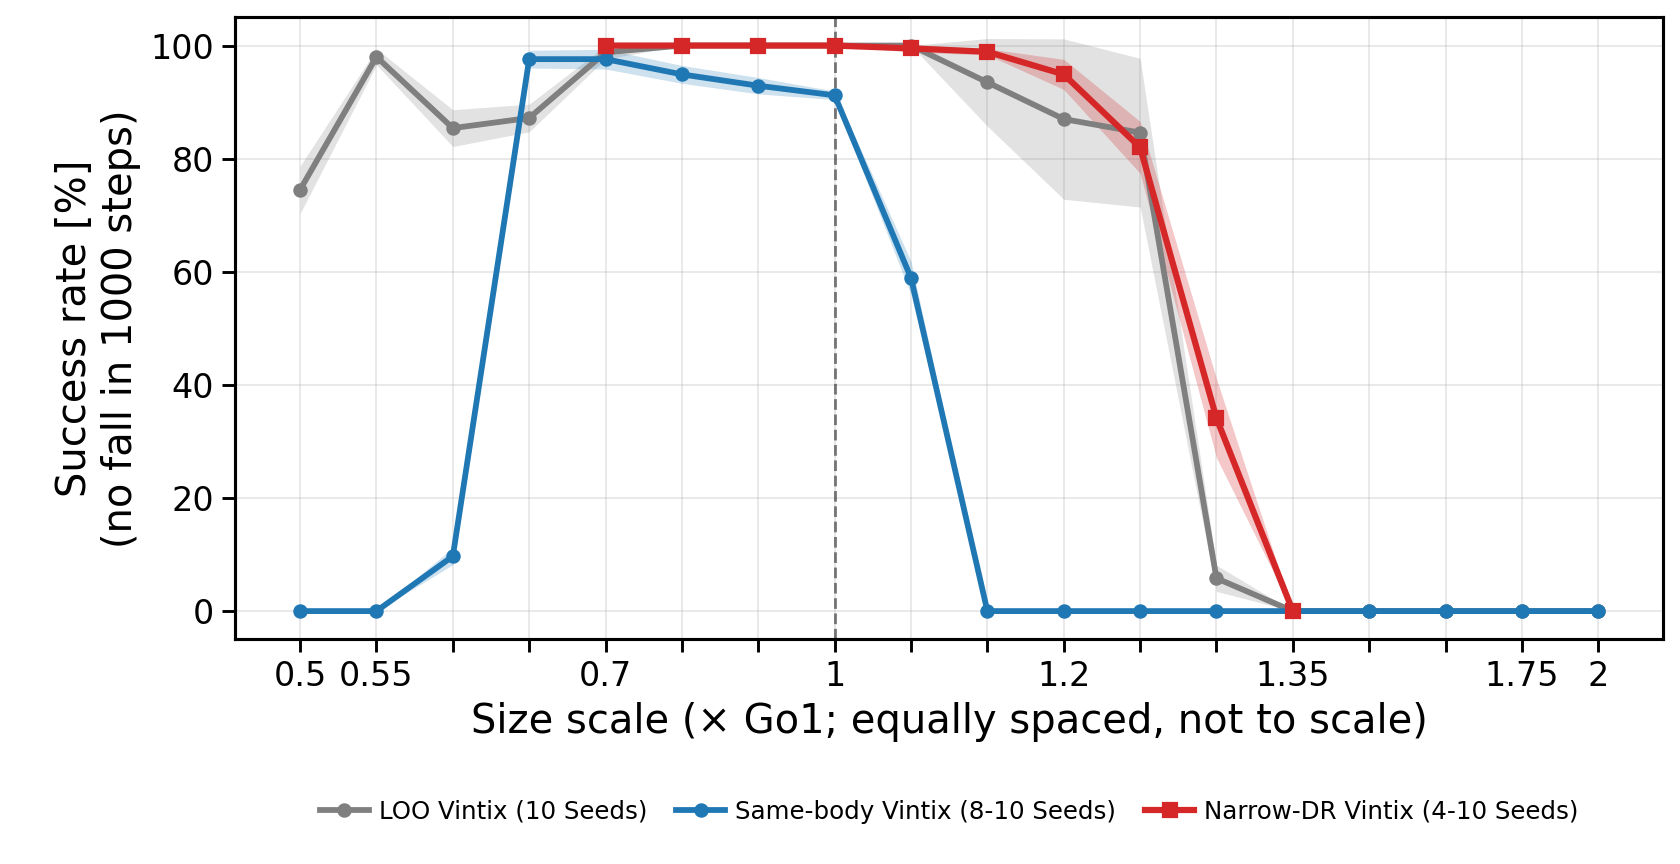
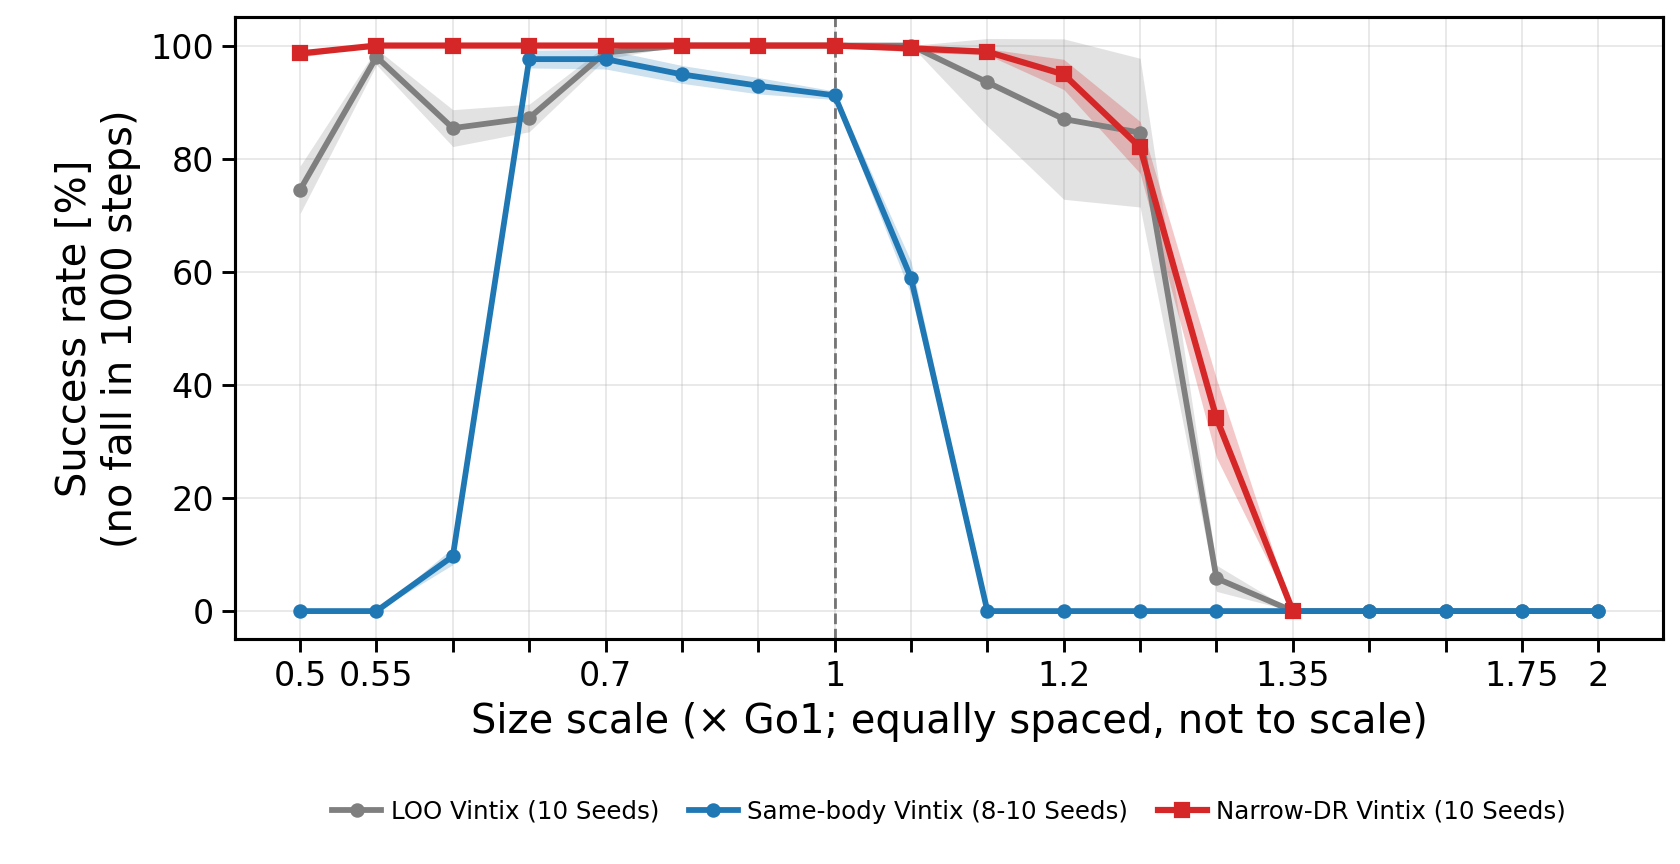
Record #21 size_density hi-cliff 1.1× (no high-side gain vs LOO).

Changed region(s): [[0.4333, 0.9062, 0.9286, 0.9688], [0.2167, 0.9062, 0.4024, 0.9688], [0.1548, 0.0312, 0.3714, 0.0625]]

diff --git a/vintix_go2/dr_narrow_vintix_bodyscale/make_interim_size_density_figure.py b/vintix_go2/dr_narrow_vintix_bodyscale/make_interim_size_density_figure.py
@@ -1,0 +1,203 @@
+#!/usr/bin/env python3
+"""Interim Go1 size_density figure: narrow-DR (#21) vs same-body (#18) vs LOO (#10).
+
+Does not touch the running eval pipeline.
+
+  cd /workspace/vintix_go2
+  python dr_narrow_vintix_bodyscale/make_interim_size_density_figure.py
+"""
+from __future__ import annotations
+
+import csv
+import json
+from collections import defaultdict
+from datetime import datetime, timezone
+from pathlib import Path
+
+import numpy as np
+
+EXP_DIR = Path(__file__).resolve().parent
+NARROW_ROOT = EXP_DIR / "results" / "go1" / "vintix" / "size_density"
+NARROW_MASS = EXP_DIR / "results" / "go1" / "vintix" / "mass"
+SAME_ROOT = EXP_DIR.parent / "same_body_scale_zeroshot" / "results" / "go1" / "vintix" / "size_density"
+SAME_MASS = EXP_DIR.parent / "same_body_scale_zeroshot" / "results" / "go1" / "vintix" / "mass"
+LOO_CSV = EXP_DIR.parent / "robot_body_scale_zeroshot" / "results.csv"
+FIG_DIR = EXP_DIR / "figures"
+OUTPUT_STEM = "go1_10envs_10episodes"
+BOLD_SCALES = (0.7, 0.8, 0.9, 1.0, 1.1, 1.15, 1.2, 1.25, 1.3)
+
+
+def collect_axis(root: Path, mass_root: Path | None = None) -> dict[float, list[float]]:
+    by_scale: dict[float, list[float]] = defaultdict(list)
+    if root.is_dir():
+        for meta in root.glob("*_seed*/point.json"):
+            parent = meta.parent.name
+            scale_s, _seed = parent.rsplit("_seed", 1)
+            scale = float(scale_s.replace("s", "").replace("p", "."))
+            metrics = meta.parent / f"{OUTPUT_STEM}_metrics.json"
+            if not metrics.exists():
+                continue
+            cr = float(json.load(open(metrics))["completion_rate"]) * 100.0
+            by_scale[scale].append(cr)
+    if mass_root is not None and 1.0 not in by_scale and mass_root.is_dir():
+        for meta in mass_root.glob("s1p000_seed*/point.json"):
+            metrics = meta.parent / f"{OUTPUT_STEM}_metrics.json"
+            if not metrics.exists():
+                continue
+            by_scale[1.0].append(float(json.load(open(metrics))["completion_rate"]) * 100.0)
+    return dict(by_scale)
+
+
+def collect_loo() -> dict[float, tuple[float, float, int]]:
+    out: dict[float, tuple[float, float, int]] = {}
+    if not LOO_CSV.exists():
+        return out
+    with open(LOO_CSV) as f:
+        for row in csv.DictReader(f):
+            if row["robot"] != "go1" or row["policy"] != "vintix" or row["axis"] != "size_density":
+                continue
+            scale = float(row["scale"])
+            out[scale] = (
+                float(row["completion_mean"]),
+                float(row["completion_std"]),
+                int(row["n_seeds"]),
+            )
+    return out
+
+
+def tick_label_indices(n: int, base: int, step: int = 3) -> list[int]:
+    labeled = {0, n - 1, base}
+    for i in range(base - step, -1, -step):
+        labeled.add(i)
+    for i in range(base + step, n, step):
+        labeled.add(i)
+    return sorted(labeled)
+
+
+def _series_stats(by_scale: dict[float, list[float]], scales: list[float]):
+    xs = [x for x in scales if x in by_scale and by_scale[x]]
+    vals = [np.array(by_scale[x]) for x in xs]
+    mean = np.array([v.mean() for v in vals])
+    std = np.array([v.std(ddof=0) for v in vals])
+    n0, n1 = min(len(v) for v in vals), max(len(v) for v in vals)
+    seeds = f"{n0}-{n1} Seeds" if n0 != n1 else f"{n0} Seeds"
+    return xs, mean, std, seeds
+
+
+def main() -> Path:
+    import matplotlib
+
+    matplotlib.use("Agg")
+    import matplotlib.pyplot as plt
+
+    narrow = collect_axis(NARROW_ROOT, NARROW_MASS)
+    same = collect_axis(SAME_ROOT, SAME_MASS)
+    loo = collect_loo()
+    scales = sorted(set(narrow) | set(same) | set(loo))
+    pos = {x: i for i, x in enumerate(scales)}
+    base = scales.index(1.0) if 1.0 in scales else 0
+    day = datetime.now(timezone.utc).strftime("%Y%m%d")
+    out = FIG_DIR / f"go1_size_density_narrow_vs_samebody_loo_completion_mean_std_{day}.png"
+
+    with plt.rc_context(
+        {
+            "font.size": 16,
+            "axes.labelsize": 18,
+            "xtick.labelsize": 15,
+            "ytick.labelsize": 15,
+            "legend.fontsize": 11,
+            "axes.linewidth": 1.4,
+        }
+    ):
+        fig, ax = plt.subplots(1, 1, figsize=(10.5, 5.4))
+
+        xs = [x for x in scales if x in loo]
+        if xs:
+            xp = np.array([pos[x] for x in xs], dtype=float)
+            mean = np.array([loo[x][0] for x in xs])
+            std = np.array([loo[x][1] for x in xs])
+            n0, n1 = min(loo[x][2] for x in xs), max(loo[x][2] for x in xs)
+            seeds = f"{n0}-{n1} Seeds" if n0 != n1 else f"{n0} Seeds"
+            ax.plot(
+                xp, mean, "o-", color="#7f7f7f",
+                label=f"LOO Vintix ({seeds})", lw=2.6, ms=5.5, zorder=3,
+            )
+            ax.fill_between(xp, mean - std, mean + std, color="#7f7f7f", alpha=0.22, lw=0, zorder=2)
+
+        if same:
+            xs, mean, std, seeds = _series_stats(same, scales)
+            xp = np.array([pos[x] for x in xs], dtype=float)
+            ax.plot(
+                xp, mean, "o-", color="#1f77b4",
+                label=f"Same-body Vintix ({seeds})", lw=2.6, ms=5.5, zorder=4,
+            )
+            ax.fill_between(xp, mean - std, mean + std, color="#1f77b4", alpha=0.22, lw=0, zorder=2)
+
+        if narrow:
+            xs, mean, std, seeds = _series_stats(narrow, scales)
+            xp = np.array([pos[x] for x in xs], dtype=float)
+            ax.plot(
+                xp, mean, "s-", color="#d62728",
+                label=f"Narrow-DR Vintix ({seeds})", lw=2.8, ms=6, zorder=5,
+            )
+            ax.fill_between(xp, mean - std, mean + std, color="#d62728", alpha=0.25, lw=0, zorder=2)
+
+        if 1.0 in pos:
+            ax.axvline(pos[1.0], color="black", lw=1.3, ls="--", alpha=0.5)
+        ax.set_ylim(-5, 105)
+        ax.set_ylabel("Success rate [%]\n(no fall in 1000 steps)")
+        ax.grid(True, alpha=0.3)
+        ax.tick_params(width=1.3, length=6)
+        tick_idx = set(tick_label_indices(len(scales), base, step=3))
+        ax.set_xticks(range(len(scales)))
+        ax.set_xticklabels([f"{scales[i]:g}" if i in tick_idx else "" for i in range(len(scales))])
+        ax.set_xlabel("Size×density scale (× Go1; equally spaced, not to scale)")
+        fig.subplots_adjust(left=0.14, right=0.99, top=0.98, bottom=0.26)
+        handles, labels = ax.get_legend_handles_labels()
+        axes_mid = 0.5 * (0.14 + 0.99)
+        fig.legend(
+            handles,
+            labels,
+            loc="upper center",
+            ncol=3,
+            frameon=False,
+            bbox_to_anchor=(axes_mid, 0.10),
+            handlelength=2.0,
+            columnspacing=1.2,
+            handletextpad=0.4,
+        )
+        FIG_DIR.mkdir(parents=True, exist_ok=True)
+        fig.savefig(out, dpi=160)
+        plt.close(fig)
+
+    table = FIG_DIR / f"go1_size_density_narrow_vs_samebody_loo_table_{day}.md"
+    lines = [
+        f"<!-- interim #21 size_density, {day} UTC -->",
+        "",
+        "| scale | narrow-DR mean% (n) | narrow std% | same-body mean% (n) | same std% | LOO mean% (n) | LOO std% |",
+        "|---:|---:|---:|---:|---:|---:|---:|",
+    ]
+    for x in scales:
+        def fmt(by):
+            if x not in by or not by[x]:
+                return "—", "—"
+            v = np.array(by[x])
+            return f"{v.mean():.1f} ({len(v)})", f"{v.std(ddof=0):.1f}"
+
+        nb, nb_s = fmt(narrow)
+        sb, sb_s = fmt(same)
+        if x in loo:
+            m, s, n = loo[x]
+            lo, lo_s = f"{m:.1f} ({n})", f"{s:.1f}"
+        else:
+            lo, lo_s = "—", "—"
+        label = f"**{x:g}**" if x in BOLD_SCALES else f"{x:g}"
+        lines.append(f"| {label} | {nb} | {nb_s} | {sb} | {sb_s} | {lo} | {lo_s} |")
+    table.write_text("\n".join(lines) + "\n")
+    print(out)
+    print(table)
+    return out
+
+
+if __name__ == "__main__":
+    main()

diff --git a/vintix_go2/dr_narrow_vintix_bodyscale/README.md b/vintix_go2/dr_narrow_vintix_bodyscale/README.md
@@ -108,3 +108,12 @@ python dr_narrow_vintix_bodyscale/make_numberline_report.py
 - **学習分布:** 脚長 0.206–0.587 m。崖 1.35×（thigh 代理 ≈0.29 m）は学習脚長範囲の**内側** → 一様スケールの崖 ≠ DR 形態カバーの単純な外縁切れ
 - **図:** `figures/go1_size_narrow_vs_samebody_loo_completion_mean_std_20261122.png`
 - **次:** size 低側 → size_density → 数直線。ETA ≈+25h（崖依存）。#16/#22 の `--run` は GPU 解放後
+
+### 2026-11-22 19:45（autopilot）: size 低側完了 + size_density 高側崖 1.1×（質量・size と対照）
+
+- **進捗:** 320+120skip/470。cliffs: mass hi=**1.5**、size hi=**1.35**、size_density hi=**1.1**。0.7× 走行中。failed なし
+- **size（低側も含め確定）:** 0.5–1.0× ≈**100%** → 1.15× **98.9%** → **1.3× 34.1%** → **1.35× 0%**。低側崖なし（0.5× まで高完走）
+- **size_density（高側確定・低側途中）:** 0.8–1.0× **100%** → **1.1× 0%**（cliff）。同体は 0.8× 既に 0%、LOO も 1.1×=0% → **高側では多様性が帯を広げない**（質量・size と対照）
+- **低側の差（暫定）:** 0.8× で同体 0% / LOO 91.9% / narrow **100%**。0.7× 評価中
+- **図:** `figures/go1_size_narrow_…_20261122.png`（低側更新）、`figures/go1_size_density_narrow_vs_samebody_loo_completion_mean_std_20261122.png`
+- **次:** size_density 低側崖 → 数直線。ETA ≈+8h。#16/#22 `--run` は GPU 解放後

diff --git a/vintix_go2/dr_narrow_vintix_bodyscale/figures/go1_size_narrow_vs_samebody_loo_table_20261122.md b/vintix_go2/dr_narrow_vintix_bodyscale/figures/go1_size_narrow_vs_samebody_loo_table_20261122.md
@@ -2,11 +2,11 @@
 
 | scale | narrow-DR mean% (n) | narrow std% | same-body mean% (n) | same std% | LOO mean% (n) | LOO std% |
 |---:|---:|---:|---:|---:|---:|---:|
-| 0.5 | — | — | 0.0 (8) | 0.0 | 74.5 (10) | 4.2 |
-| 0.55 | — | — | 0.0 (10) | 0.0 | 98.0 (10) | 1.4 |
-| 0.6 | — | — | 9.7 (10) | 1.5 | 85.4 (10) | 3.3 |
-| 0.65 | — | — | 97.6 (10) | 1.6 | 87.2 (10) | 2.4 |
-| **0.7** | 100.0 (4) | 0.0 | 97.6 (10) | 1.7 | 98.8 (10) | 1.2 |
+| 0.5 | 98.6 (10) | 0.7 | 0.0 (8) | 0.0 | 74.5 (10) | 4.2 |
+| 0.55 | 100.0 (10) | 0.0 | 0.0 (10) | 0.0 | 98.0 (10) | 1.4 |
+| 0.6 | 100.0 (10) | 0.0 | 9.7 (10) | 1.5 | 85.4 (10) | 3.3 |
+| 0.65 | 100.0 (10) | 0.0 | 97.6 (10) | 1.6 | 87.2 (10) | 2.4 |
+| **0.7** | 100.0 (10) | 0.0 | 97.6 (10) | 1.7 | 98.8 (10) | 1.2 |
 | **0.8** | 100.0 (10) | 0.0 | 94.9 (10) | 1.6 | 100.0 (10) | 0.0 |
 | **0.9** | 100.0 (10) | 0.0 | 92.9 (10) | 1.4 | 100.0 (10) | 0.0 |
 | **1** | 100.0 (10) | 0.0 | 91.2 (10) | 0.7 | 100.0 (10) | 0.0 |

diff --git a/vintix_go2/dr_narrow_vintix_bodyscale/figures/go1_size_density_narrow_vs_samebody_loo_table_20261122.md b/vintix_go2/dr_narrow_vintix_bodyscale/figures/go1_size_density_narrow_vs_samebody_loo_table_20261122.md
@@ -1,0 +1,14 @@
+<!-- interim #21 size_density, 20261122 UTC -->
+
+| scale | narrow-DR mean% (n) | narrow std% | same-body mean% (n) | same std% | LOO mean% (n) | LOO std% |
+|---:|---:|---:|---:|---:|---:|---:|
+| 0.5 | — | — | 0.0 (8) | 0.0 | 0.0 (10) | 0.0 |
+| 0.6 | — | — | 0.0 (8) | 0.0 | 0.0 (10) | 0.0 |
+| **0.7** | — | — | 0.0 (8) | 0.0 | 0.2 (10) | 0.6 |
+| **0.8** | 100.0 (10) | 0.0 | 0.0 (10) | 0.0 | 91.9 (10) | 3.2 |
+| **0.9** | 100.0 (10) | 0.0 | 98.2 (10) | 1.2 | 95.7 (10) | 1.8 |
+| **1** | 100.0 (10) | 0.0 | 91.2 (10) | 0.7 | 100.0 (10) | 0.0 |
+| **1.1** | 0.0 (10) | 0.0 | 0.0 (10) | 0.0 | 0.0 (10) | 0.0 |
+| **1.2** | — | — | 0.0 (8) | 0.0 | 0.0 (10) | 0.0 |
+| **1.3** | — | — | 0.0 (8) | 0.0 | 0.0 (10) | 0.0 |
+| 1.5 | — | — | 0.0 (8) | 0.0 | 0.7 (10) | 0.8 |
